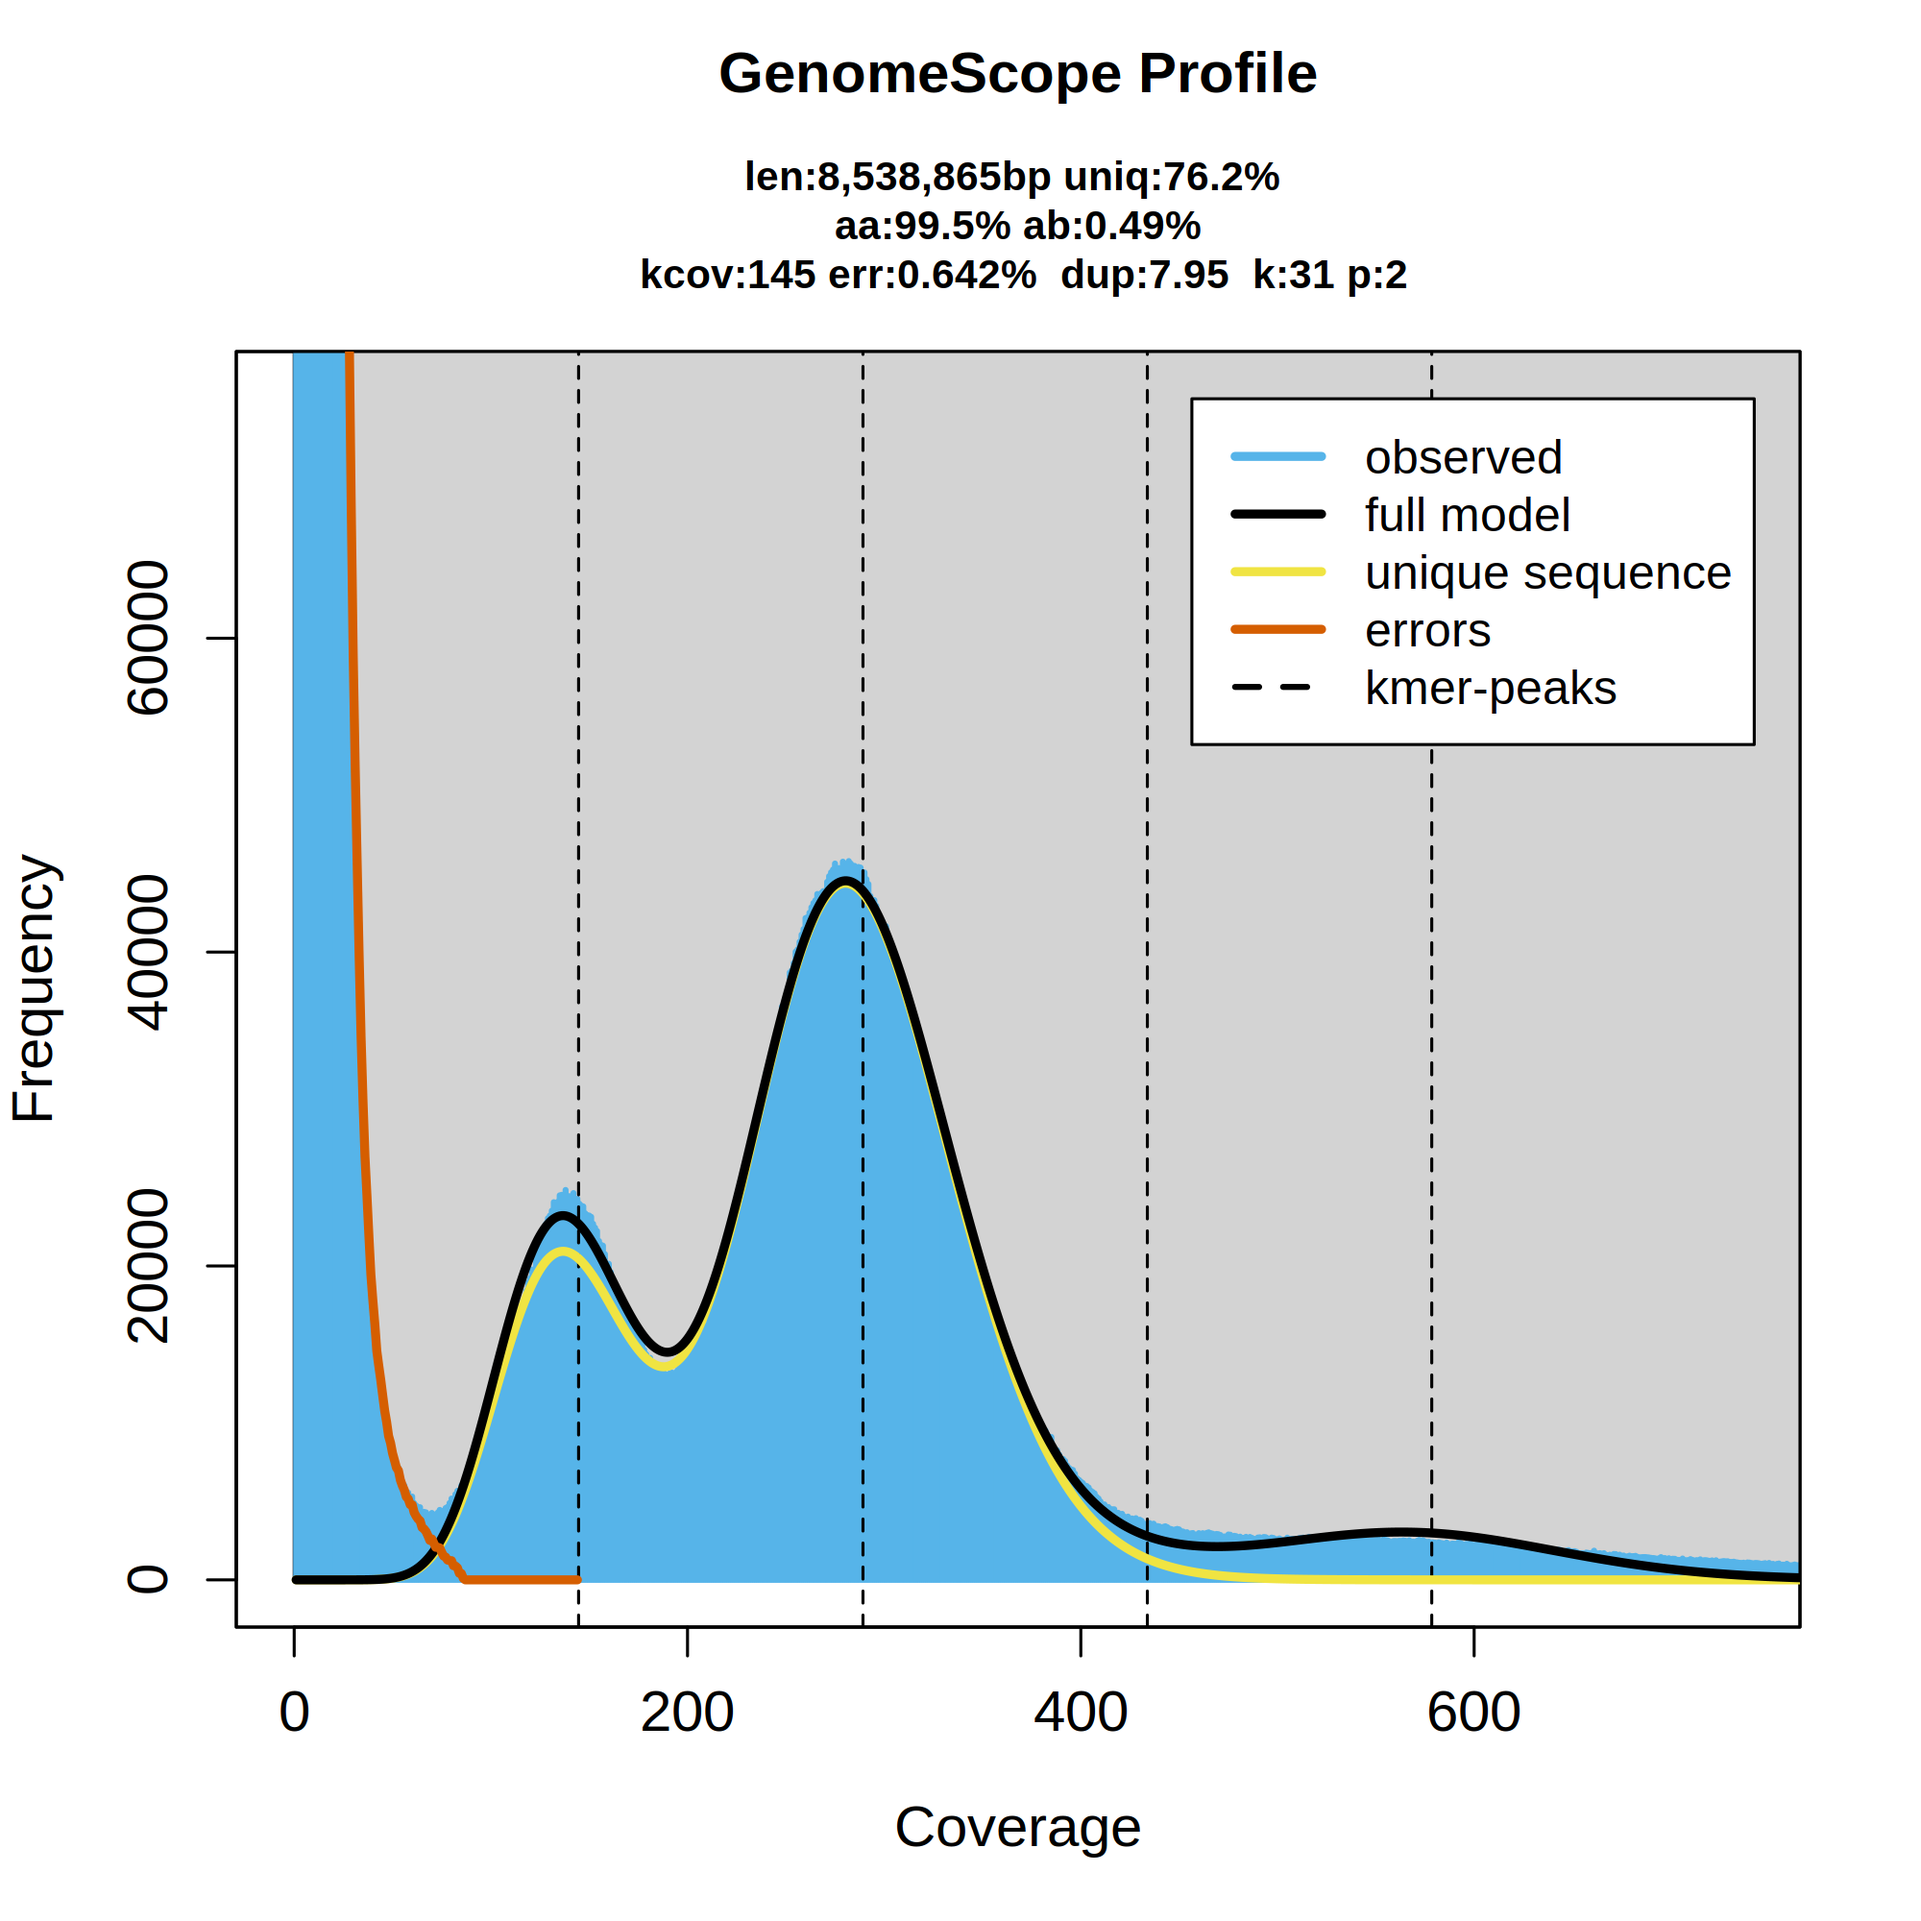
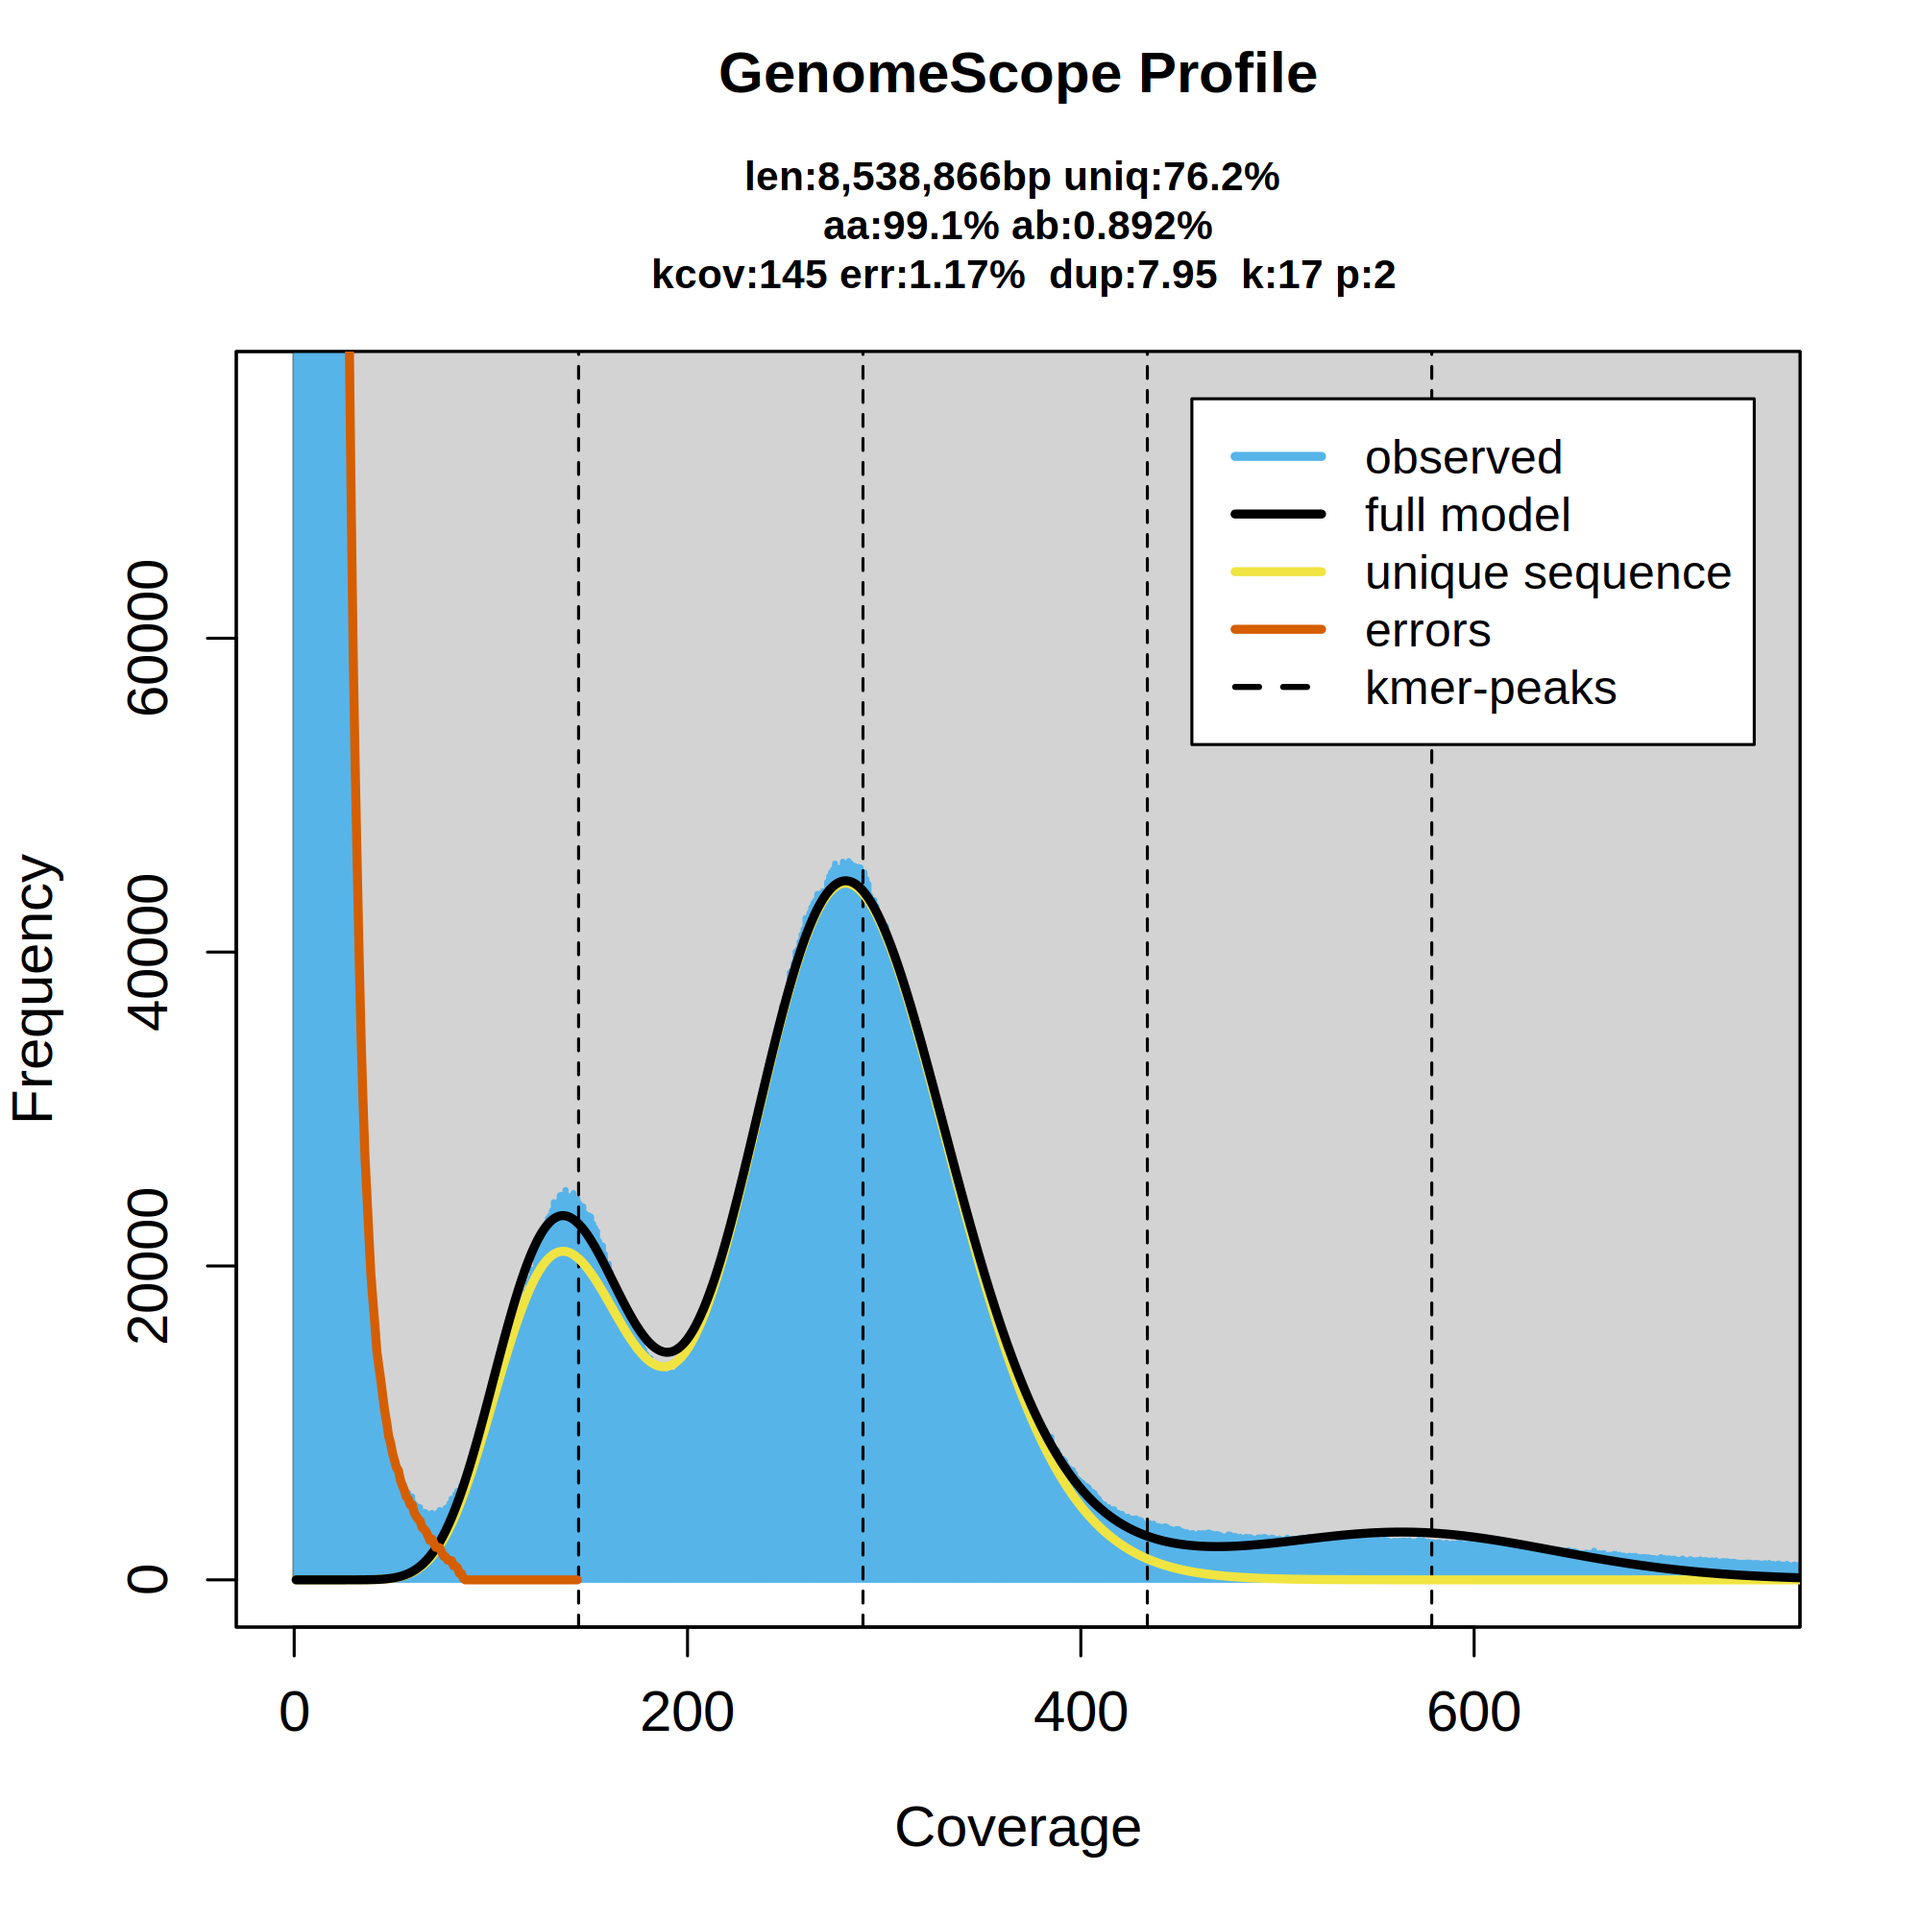
genomescope2 e smudgeplot

Changed region(s): [[0.341, 0.093, 0.744, 0.155]]

diff --git a/bioinfo.md b/bioinfo.md
@@ -725,7 +725,7 @@ Você pode visualizar o histograma criado com qualquer visualizador de arquivos 
 Agora com o arquivo `.histo`, podemos executar o GenomeScope2 para estimar algumas caracteristicas do genoma.
 
 ```
-genomescope2 --input SRR926312_k17.histo --output SRR926312_k17.genomescope2 --ploidy 2 --kmer_length 31 --name_prefix SRR926312_k17
+genomescope2 --input SRR926312_k17.histo --output SRR926312_k17.genomescope2 --ploidy 2 --kmer_length 17 --name_prefix SRR926312_k17
 ```
 
 Visualize os arquivos de figuras. Uma delas é `SRR926312_k17.genomescope2/SRR926312_k17_linear_plot.png`:
@@ -767,6 +767,8 @@ smudgeplot.py plot -t SRR926312_k17 -o SRR926312_k17_smudgeplot SRR926312_k17_pa
 ![SRR926312_k17_smudgeplot_smudgeplot_log10](images/SRR926312_k17_smudgeplot_smudgeplot_log10.png)
 
 Um gráfico com várias manchas (_smudges_) e anotações que se sobrepõem às manchas. No painel superior direito, você verá proporções de pares de k-meres nas manchas individuais, ordenadas por frequência. No canto inferior direito, você verá a estimativa de cobertura 1n para o conjunto de dados. Esta é a mesma cobertura 1n que foi inferida pelo GenomeScope; esses dois números precisam ser muito semelhantes para que o modelo e o SmudgePlot estejam contando a mesma história. Se eles forem substancialmente diferentes, é necessário investigar o motivo. Em genomas diferentes, o SmudgePlot ou o GenomeScope são melhores para determinar a cobertura, e geralmente as diferenças são em uma ordem de magnitude de 2. Se você acha que a estimativa de cobertura do SmudgePlot está errada, execute o SmudgePlot novamente com o parâmetro '-n' e forneça um número correspondente ao pico 1n em seu gráfico GenomeScope, como '-n 50'.
+
+Neste exemplo, o SmudgePlot sugere um organismo tetraploide, mas observe que a proporção de hetmers diploides e tetraploides é a mesma. Tente executar o GenomeScope2 com ploidia 4 e compare os resultados de ajuste do modelo.
 
 ## Bioinfo 4 - Montagem _de novo_ de genomas
 
